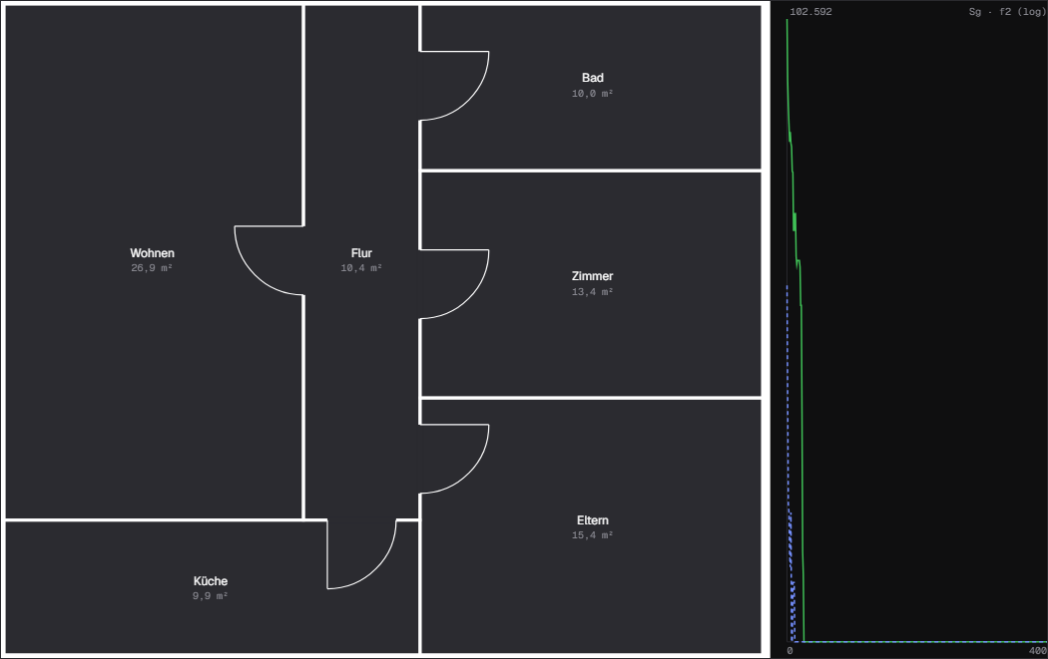
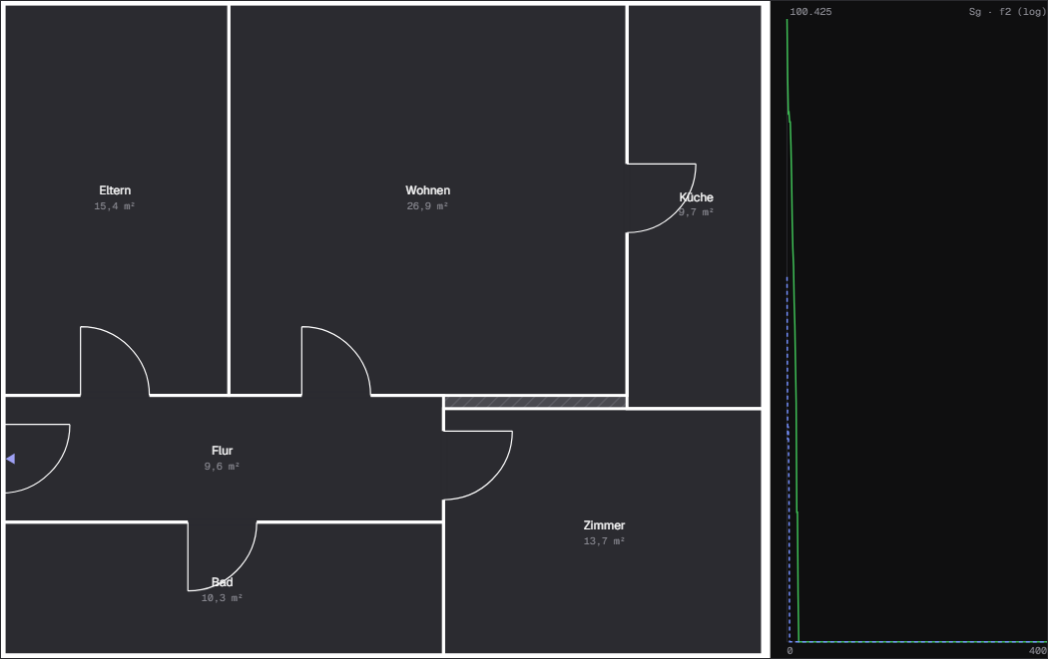
KREMLAS: Wohnung mit Eingang als Voreinstellung der Grundriss-Fassungen, Kasten „L-förmige Räume“ gut sichtbar (Reinhard 23.11.2026)
- grundrissTopo "wohnung" in grundriss6/8/10 (Stern des Buchs wählbar); Tests angepasst, Vorschau mit Saat 2
- L-Auswahl als eigener Kasten mit Überschrift und Hinweis in allen Grundriss-Fassungen (ohne Mindestmaße ausgegraut), im Text und unter „Lösungen“ beschrieben

diff --git a/simulationen/kremlas-dichte-packung/index.html b/simulationen/kremlas-dichte-packung/index.html
@@ -30,8 +30,9 @@
 .l-karte canvas { display: block; max-width: 100%; height: auto; }
 .loesungen .hinweis { font-size: 12px; margin: 10px 0 0; max-width: 90ch; }
 /* L-förmige Räume je Raum (neu) */
-.l-wahl { display: flex; flex-wrap: wrap; gap: 4px 12px; padding: 4px 0 8px; font-size: 13px; }
-.l-wahl .l-titel { flex-basis: 100%; color: var(--muted); font-size: 12px; }
+.l-wahl { display: flex; flex-wrap: wrap; gap: 4px 12px; margin: 6px 0 10px; padding: 8px 10px; font-size: 13px; border: 1px solid var(--accent-text); border-radius: 4px; }
+.l-wahl .l-titel { flex-basis: 100%; font-family: var(--mono); font-size: 11px; letter-spacing: .06em; text-transform: uppercase; color: var(--accent-text); }
+.l-wahl .l-hinweis { flex-basis: 100%; color: var(--muted); font-size: 12px; margin-bottom: 2px; }
 .l-wahl label { display: flex; align-items: center; gap: 4px; cursor: pointer; }
 .l-wahl label.aus { color: var(--muted); cursor: default; }
 </style>
@@ -65,7 +66,7 @@
     <span class="mono hinweis" id="l-status"></span>
   </div>
   <div id="l-karten"></div>
-  <p class="hinweis mono"><span lang="de">Gesucht werden Grundrisse, die funktionieren: jede geforderte Nachbarschaft mit Tür, keine Überlappung, jeder Raum mindestens so breit wie seine Mindestbreite und mindestens 95 % seiner Fläche. Die Suche startet viele kurze Läufe mit neuen Saaten, ab der eingestellten Saat, bessert Beinahe-Lösungen nach und wählt unter den Treffern möglichst verschiedene. Ein Klick auf eine Karte lädt den Grundriss in die Ansicht oben; dort lässt er sich weiterrechnen und mit der Maus bearbeiten.</span><span lang="en">The search looks for floor plans that work: a door for every required adjacency, no overlap, every room at least as wide as its minimum width and at least 95 % of its area. It starts many short runs with new seeds, beginning at the current seed, refines near-solutions and picks hits that differ as much as possible. Click a card to load the floor plan into the view above, where you can keep evolving it or edit it with the mouse.</span></p>
+  <p class="hinweis mono"><span lang="de">Gesucht werden Grundrisse, die funktionieren: jede geforderte Nachbarschaft mit Tür, keine Überlappung, jeder Raum mindestens so breit wie seine Mindestbreite und mindestens 95 % seiner Fläche. Die Suche startet viele kurze Läufe mit neuen Saaten, ab der eingestellten Saat, bessert Beinahe-Lösungen nach und wählt unter den Treffern möglichst verschiedene. Ein Klick auf eine Karte lädt den Grundriss in die Ansicht oben; dort lässt er sich weiterrechnen und mit der Maus bearbeiten. L-förmige Räume wählen Sie rechts im Bedienfeld unter <em>Fassung</em> im Kasten <em>L-förmige Räume</em>.</span><span lang="en">The search looks for floor plans that work: a door for every required adjacency, no overlap, every room at least as wide as its minimum width and at least 95 % of its area. It starts many short runs with new seeds, beginning at the current seed, refines near-solutions and picks hits that differ as much as possible. Click a card to load the floor plan into the view above, where you can keep evolving it or edit it with the mouse. Choose L-shaped rooms in the control panel on the right, under <em>Version</em>, in the box <em>L-shaped rooms</em>.</span></p>
 </section>
 
 <section class="text-teil">
@@ -83,9 +84,9 @@
       <p><code>Sg = Σ Schnittflächen der Räume + Σ Flächen außerhalb des Umgebungsrechtecks</code></p>
       <p>Eine hybride Evolutionsstrategie verbindet zwei Verfahren. Kinder entstehen durch Rekombination zweier Eltern und durch zufällige Verschiebung einzelner Räume, selten mit großen Sprüngen. Jedes Kind „entwickelt“ sich danach durch Kollisionserkennung: Überlappen sich zwei Räume, weichen beide um einen Teil des kürzesten Trennvektors aus (Kraft β) und ändern ihre Proportion (Kraft α), sodass die Fläche erhalten bleibt. Bei der (μ+λ)-Selektion kommen die Eltern selbst in die Auswahl, bei (μ,λ) nur die Kinder. Die Fassung <em>Kollision allein</em> zeigt, warum die Selektion nötig ist: Ohne sie schaukeln sich manche Anordnungen immer wieder auf.</p>
       <p>Die beiden Fassungen mit <em>Topologie</em> fordern Nachbarschaften: Alle Räume sollen an einen zentralen Raum grenzen (Stern), oder ein Gang erschließt drei Wohnungen mit je fünf Räumen. Virtuelle Federn ziehen Räume zusammen, die benachbart sein sollen. Ein zweites Kriterium f2 summiert ihre Abstände samt fehlender Durchgangsbreite. Die Selektion wählt einen Teil der Eltern nach Sg, den anderen nach f2. Im Originalcode zog die Hälfte der Federn in die falsche Richtung, und Räume, die sich schon berührten, bekamen gar keinen Zug mehr, auch wenn ihre gemeinsame Wand für einen Durchgang zu kurz war. Beides ist hier behoben. Außerdem wechseln Federn und Kollisionserkennung je Kind mehrmals ab (Regler <em>Federrunden</em>, im Original zwei). So ziehen sich die Räume sichtbar zusammen: Den Stern mit acht Räumen löst die App fast immer, meist schon in den ersten hundert Generationen, den Gang mit 16 Räumen meist innerhalb von tausend. Ziehen Sie einen Raum mit der Maus an eine andere Stelle: Die übrigen ordnen sich um ihn herum neu.</p>
-      <p>Die Fassungen <em>Grundriss</em> machen daraus einen Grundriss-Generator, wie ihn das Buch zum Projekt beschreibt (Kapitel 5 und 9). Grundlage sind die beiden Raumprogramme mit acht und zehn Räumen nach Flemming: Flur, Hof, Wohnen, Elternschlafzimmer, zwei Zimmer, Küche und Bad, zusammen 86 m². Sie sind auch im Originalcode vorbereitet. Das Feld misst 10 × 8,6 m. Die Räume füllen es wie im Buch ganz aus, und alle Räume sollen an den Flur grenzen (Sterntopologie). Damit das gelingt, muss der Flur schmal und lang werden dürfen. Die kürzeste Seite eines Raums darf deshalb bis auf 0,4 · √Fläche sinken (im Originalcode fest 0,75). Mit 1 m Durchgangsbreite löst die App das Programm mit acht Räumen meist ganz, das mit zehn Räumen seltener. Wahlweise gibt es angenommene Nachbarschaften einer Wohnung mit Eingang am Flur (diese Auswahl erscheint nur in den Grundriss-Fassungen). Mit <em>Topologie zeigen</em> liegen die geforderten Nachbarschaften als Linien über dem Grundriss. Wer die Belegung unter 100 % stellt, findet leichter Lösungen. Die Ansicht <em>Grundriss ableiten</em> lässt die Räume dann in die Restflächen wachsen. Sie zeichnet Wände, setzt an den gemeinsamen Wänden geforderter Nachbarn mittig eine Tür, wie im Buch, und schraffiert, was übrig bleibt. Die Flächen im Plan sind die Flächen nach dem Wachsen.</p>
+      <p>Die Fassungen <em>Grundriss</em> machen daraus einen Grundriss-Generator, wie ihn das Buch zum Projekt beschreibt (Kapitel 5 und 9). Grundlage sind die beiden Raumprogramme mit acht und zehn Räumen nach Flemming: Flur, Hof, Wohnen, Elternschlafzimmer, zwei Zimmer, Küche und Bad, zusammen 86 m². Sie sind auch im Originalcode vorbereitet. Das Feld misst 10 × 8,6 m. Die Räume füllen es wie im Buch ganz aus, und alle Räume sollen an den Flur grenzen (Sterntopologie). Damit das gelingt, muss der Flur schmal und lang werden dürfen. Die kürzeste Seite eines Raums darf deshalb bis auf 0,4 · √Fläche sinken (im Originalcode fest 0,75). Mit 1 m Durchgangsbreite löst die App das Programm mit acht Räumen meist ganz, das mit zehn Räumen seltener. Voreingestellt sind jetzt angenommene Nachbarschaften einer Wohnung mit Eingang am Flur; die Sterntopologie des Buchs ist wählbar (diese Auswahl erscheint nur in den Grundriss-Fassungen). Mit <em>Topologie zeigen</em> liegen die geforderten Nachbarschaften als Linien über dem Grundriss. Wer die Belegung unter 100 % stellt, findet leichter Lösungen. Die Ansicht <em>Grundriss ableiten</em> lässt die Räume dann in die Restflächen wachsen. Sie zeichnet Wände, setzt an den gemeinsamen Wänden geforderter Nachbarn mittig eine Tür, wie im Buch, und schraffiert, was übrig bleibt. Die Flächen im Plan sind die Flächen nach dem Wachsen.</p>
       <p><strong>Lösungen suchen (neu).</strong> Die App startet mit einem Grundriss aus sechs Räumen: Flur, Wohnen, Küche, Elternschlafzimmer, Zimmer und Bad, zusammen ebenfalls 86 m². Dieses Programm ist angenommen, im Buch steht es nicht. In allen Grundriss-Fassungen gelten jetzt <em>Mindestmaße</em>, ausgeschaltet gilt der Stand des Buchs. Jeder Raum hat eine Mindestbreite, die schon im Erbgut gilt, sodass kein Raum schmaler wird: Flur 1,20 m nach DIN 18040-2:2011-09 (<em>Barrierefreies Bauen – Planungsgrundlagen – Teil 2: Wohnungen</em>), Wohnen 3,00 m, Elternschlafzimmer 2,80 m, Zimmer und Essen 2,40 m, Küche 1,80 m, Bad 1,60 m, zweites Bad 1,40 m, Hof 2,50 m. Außer beim Flur sind das Annahmen nach üblichen Möblierungen, denn eine geltende Norm mit Mindestbreiten je Raumart gibt es nicht (DIN 18011 ist zurückgezogen). Ein drittes Kriterium f3 bewertet den abgeleiteten Plan selbst: fehlende Türen (gemessen als Abstand der Räume und fehlende Länge der gemeinsamen Wand), zu schmale und zu kleine Räume, Überlappung. In der Selektion tritt f3 an die Stelle von f2. Kleine Überlappungen bis 0,5 m teilt der Plan, die Wand rückt in ihre Mitte. Damit dabei jeder Raum seine Fläche behält, belegen die Räume 96 % des Feldes. Unter der Grafik sucht <em>Grundrisse suchen</em> die eingestellte Zahl gültiger Grundrisse, voreingestellt drei. Die Suche startet viele kurze Läufe mit neuen Saaten statt eines langen, denn wer früh nicht trifft, trifft selten noch. Beinahe-Lösungen bessert sie nach, indem sie einzelne Räume ein wenig verschiebt, und unter den Treffern wählt sie möglichst verschiedene aus. Drei Grundrisse mit sechs Räumen sind meist in ein bis zwei Sekunden gefunden, mit acht Räumen in rund 20 Sekunden. Mit zehn Räumen gelingt es in der Wohnung, im Stern kaum: Dort reicht die Wandlänge des Flurs kaum für alle Mindestbreiten. Ein Klick auf eine Karte lädt den Grundriss in die Ansicht, wo er sich weiterrechnen und mit der Maus bearbeiten lässt.</p>
-      <p><strong>L-förmige Räume (neu).</strong> Unter <em>Mindestmaße</em> lässt sich je Raum erlauben, dass er L-förmig wird. Ein L-Raum besteht dann aus zwei Rechtecken mit fester Gesamtfläche, Hauptteil und Schenkel. Die Packung behandelt sie wie zwei Räume, eine innere Feder zieht sie zusammen, und die Fläche verschiebt sich durch Mutation zwischen ihnen. Gültig ist der Raum, wenn sich beide Teile auf mindestens seiner Mindestbreite berühren und an einem Ende bündig liegen, sonst entstünde ein T oder ein Z. Jeder Schenkel braucht die Mindestbreite, deshalb geht das nur bei Räumen, deren Fläche für zwei solche Teile reicht (mindestens 2,2 · Mindestbreite²). Türen dürfen an beiden Teilen sitzen. Mit sechs Räumen und L-förmigem Flur und Wohnen findet die Suche drei Grundrisse meist in wenigen Sekunden. Mit acht Räumen werden L-Räume deutlich seltener gültig.</p>
+      <p><strong>L-förmige Räume (neu).</strong> Im Bedienfeld unter <em>Fassung</em>, im Kasten <em>L-förmige Räume</em> direkt unter dem Schalter <em>Mindestmaße</em>, lässt sich je Raum erlauben, dass er L-förmig wird. Ein L-Raum besteht dann aus zwei Rechtecken mit fester Gesamtfläche, Hauptteil und Schenkel. Die Packung behandelt sie wie zwei Räume, eine innere Feder zieht sie zusammen, und die Fläche verschiebt sich durch Mutation zwischen ihnen. Gültig ist der Raum, wenn sich beide Teile auf mindestens seiner Mindestbreite berühren und an einem Ende bündig liegen, sonst entstünde ein T oder ein Z. Jeder Schenkel braucht die Mindestbreite, deshalb geht das nur bei Räumen, deren Fläche für zwei solche Teile reicht (mindestens 2,2 · Mindestbreite²). Türen dürfen an beiden Teilen sitzen. Mit sechs Räumen und L-förmigem Flur und Wohnen findet die Suche drei Grundrisse meist in wenigen Sekunden. Mit acht Räumen werden L-Räume deutlich seltener gültig.</p>
       <p>Die App ist eine Neuumsetzung des C#-Programms von Reinhard König aus dem Projekt KREMLAS. Was geändert wurde, steht in <a href="QUELLE.md">QUELLE.md</a>.</p>
     </div>
     <div lang="en">
@@ -93,9 +94,9 @@
       <p><code>Sg = Σ intersections of the rooms + Σ areas outside the surrounding rectangle</code></p>
       <p>A hybrid evolution strategy combines two methods. Children are created by recombining two parents and by shifting single rooms at random, occasionally with large jumps. Each child then “develops” through collision detection: if two rooms overlap, both move apart by a share of the shortest separating vector (force β) and change their proportions (force α) so that their area stays the same. With (μ+λ) selection the parents themselves compete with the children; with (μ,λ) only the children do. The version <em>Collision only</em> shows why selection is needed: without it, some arrangements keep building up again and again.</p>
       <p>The two <em>topology</em> versions demand adjacencies: all rooms should border a central room (star), or a corridor gives access to three flats of five rooms each. Virtual springs pull together rooms that should be neighbours. A second criterion f2 sums their distances, including any missing passage width. Selection picks part of the parents by Sg and the rest by f2. In the original code, half of the springs pulled in the wrong direction, and rooms that already touched got no pull at all, even when their shared wall was too short for a passage. Both are fixed here. In addition, springs and collision detection alternate several times per child (slider <em>spring rounds</em>, two in the original). The rooms now visibly pull together: the app almost always solves the star with eight rooms, usually within the first hundred generations, and usually solves the corridor with 16 rooms within a thousand. Drag a room somewhere else with the mouse, and the other rooms rearrange themselves around it.</p>
-      <p>The <em>floor plan</em> versions turn this into a floor plan generator as described in the project book (chapters 5 and 9). They use the two room programmes with eight and ten rooms after Flemming: hall, court, living room, master bedroom, two bedrooms, kitchen and bathroom, 86 m² in total. These are also prepared in the original code. The field measures 10 × 8.6 m. As in the book, the rooms fill it completely, and every room should border the hall (star topology). For this to work, the hall must be allowed to become long and narrow. The shortest side of a room may therefore drop to 0.4 · √area (fixed at 0.75 in the original code). With a passage width of 1 m, the app usually solves the eight-room programme completely, the ten-room programme less often. Alternatively, there are assumed adjacencies of a flat with an entrance in the hall (this choice appears only in the floor plan versions). With <em>show topology</em>, the required adjacencies are drawn as lines over the floor plan. Setting the coverage below 100 % makes solutions easier to find. The <em>derive floor plan</em> view then lets the rooms grow into the leftover space. It draws walls, places a door in the middle of each shared wall between required neighbours, as in the book, and hatches whatever space remains. The areas shown in the plan are those after growing.</p>
+      <p>The <em>floor plan</em> versions turn this into a floor plan generator as described in the project book (chapters 5 and 9). They use the two room programmes with eight and ten rooms after Flemming: hall, court, living room, master bedroom, two bedrooms, kitchen and bathroom, 86 m² in total. These are also prepared in the original code. The field measures 10 × 8.6 m. As in the book, the rooms fill it completely, and every room should border the hall (star topology). For this to work, the hall must be allowed to become long and narrow. The shortest side of a room may therefore drop to 0.4 · √area (fixed at 0.75 in the original code). With a passage width of 1 m, the app usually solves the eight-room programme completely, the ten-room programme less often. By default, the app now uses assumed adjacencies of a flat with an entrance in the hall; the book's star topology can be selected (this choice appears only in the floor plan versions). With <em>show topology</em>, the required adjacencies are drawn as lines over the floor plan. Setting the coverage below 100 % makes solutions easier to find. The <em>derive floor plan</em> view then lets the rooms grow into the leftover space. It draws walls, places a door in the middle of each shared wall between required neighbours, as in the book, and hatches whatever space remains. The areas shown in the plan are those after growing.</p>
       <p><strong>Searching for solutions (new).</strong> The app starts with a floor plan of six rooms: hall, living room, kitchen, master bedroom, bedroom and bathroom, again 86 m² in total. This programme is assumed; it is not in the book. All floor plan versions now apply <em>minimum dimensions</em>; switched off, the book's version applies. Each room has a minimum width that already holds in the genotype, so no room becomes narrower: hall 1.20 m after DIN 18040-2:2011-09 (<em>Barrierefreies Bauen – Planungsgrundlagen – Teil 2: Wohnungen</em>, accessible design, part 2: dwellings), living room 3.00 m, master bedroom 2.80 m, bedroom and dining room 2.40 m, kitchen 1.80 m, bathroom 1.60 m, second bathroom 1.40 m, court 2.50 m. Apart from the hall, these are assumptions based on common furnishing, because no standard in force sets minimum widths per type of room (DIN 18011 has been withdrawn). A third criterion f3 assesses the derived plan itself: missing doors (measured as the distance between the rooms plus the missing length of their shared wall), rooms that are too narrow or too small, and overlap. In selection, f3 takes the place of f2. The plan splits small overlaps of up to 0.5 m by moving the wall to their middle. So that every room keeps its area, the rooms cover 96 % of the field. Below the drawing, <em>search floor plans</em> looks for the chosen number of valid floor plans, three by default. Instead of one long run, the search starts many short runs with new seeds, since a run that does not succeed early rarely succeeds later. It refines near-solutions by shifting single rooms slightly and picks hits that differ as much as possible. Three floor plans with six rooms are usually found within one or two seconds, with eight rooms in about 20 seconds. With ten rooms the flat works, the star hardly ever does: there the hall's walls are barely long enough for every minimum width. Click a card to load the floor plan into the view, where you can keep evolving it or edit it with the mouse.</p>
-      <p><strong>L-shaped rooms (new).</strong> Under <em>minimum dimensions</em>, each room can be allowed to become L-shaped. Such a room then consists of two rectangles with a fixed total area, a main part and a leg. The packing treats them like two rooms, an inner spring pulls them together, and mutation shifts area between them. The room is valid when both parts touch along at least its minimum width and are flush at one end; otherwise it would form a T or a Z. Each leg needs the minimum width, so this works only for rooms whose area is enough for two such parts (at least 2.2 · minimum width²). Doors may sit on either part. With six rooms and an L-shaped hall and living room, the search usually finds three floor plans within a few seconds. With eight rooms, L-shaped rooms are valid much less often.</p>
+      <p><strong>L-shaped rooms (new).</strong> In the control panel under <em>Version</em>, in the box <em>L-shaped rooms</em> right below the <em>minimum dimensions</em> switch, each room can be allowed to become L-shaped. Such a room then consists of two rectangles with a fixed total area, a main part and a leg. The packing treats them like two rooms, an inner spring pulls them together, and mutation shifts area between them. The room is valid when both parts touch along at least its minimum width and are flush at one end; otherwise it would form a T or a Z. Each leg needs the minimum width, so this works only for rooms whose area is enough for two such parts (at least 2.2 · minimum width²). Doors may sit on either part. With six rooms and an L-shaped hall and living room, the search usually finds three floor plans within a few seconds. With eight rooms, L-shaped rooms are valid much less often.</p>
       <p>The app re-implements Reinhard König's C# program from the KREMLAS project. Changes are listed in <a href="QUELLE.md">QUELLE.md</a>.</p>
     </div>
   </div>

diff --git a/simulationen/kremlas-dichte-packung/modell.js b/simulationen/kremlas-dichte-packung/modell.js
@@ -52,11 +52,11 @@
                   repForce: 0.25, repRate: 1, propForce: 0.25, propRate: 1, daempfung: 0.5, rlap: 50, federRunden: 10, mindest: false, lform: 0 },
     gang:       { ablauf: "topologie", topologie: "gang", belegung: 0.75, minSeite: 0.75, grundrissTopo: "stern", raeume: 16, mu: 10, druck: 2, plus: true, elite: false, kreuzung: true, kreuzRate: 0.75,
                   repForce: 0.25, repRate: 1, propForce: 0.25, propRate: 1, daempfung: 0.5, rlap: 50, federRunden: 10, mindest: false, lform: 0 },
-    grundriss6: { ablauf: "topologie", topologie: "programm", programm: "sechs", belegung: 0.96, minSeite: 0.4, grundrissTopo: "stern", raeume: 6, mu: 20, druck: 2, plus: true, elite: false, kreuzung: true, kreuzRate: 0.75,
+    grundriss6: { ablauf: "topologie", topologie: "programm", programm: "sechs", belegung: 0.96, minSeite: 0.4, grundrissTopo: "wohnung", raeume: 6, mu: 20, druck: 2, plus: true, elite: false, kreuzung: true, kreuzRate: 0.75,
                   repForce: 0.25, repRate: 1, propForce: 0.25, propRate: 1, daempfung: 0.5, rlap: 50, federRunden: 5, mindest: true, lform: 0 },
-    grundriss8: { ablauf: "topologie", topologie: "programm", programm: "acht", belegung: 0.96, minSeite: 0.4, grundrissTopo: "stern", raeume: 8, mu: 20, druck: 2, plus: true, elite: false, kreuzung: true, kreuzRate: 0.75,
+    grundriss8: { ablauf: "topologie", topologie: "programm", programm: "acht", belegung: 0.96, minSeite: 0.4, grundrissTopo: "wohnung", raeume: 8, mu: 20, druck: 2, plus: true, elite: false, kreuzung: true, kreuzRate: 0.75,
                   repForce: 0.25, repRate: 1, propForce: 0.25, propRate: 1, daempfung: 0.5, rlap: 50, federRunden: 5, mindest: true, lform: 0 },
-    grundriss10:{ ablauf: "topologie", topologie: "programm", programm: "zehn", belegung: 0.96, minSeite: 0.4, grundrissTopo: "stern", raeume: 10, mu: 20, druck: 2, plus: true, elite: false, kreuzung: true, kreuzRate: 0.75,
+    grundriss10:{ ablauf: "topologie", topologie: "programm", programm: "zehn", belegung: 0.96, minSeite: 0.4, grundrissTopo: "wohnung", raeume: 10, mu: 20, druck: 2, plus: true, elite: false, kreuzung: true, kreuzRate: 0.75,
                   repForce: 0.25, repRate: 1, propForce: 0.25, propRate: 1, daempfung: 0.5, rlap: 50, federRunden: 5, mindest: true, lform: 0 }
   };
 
@@ -66,7 +66,7 @@
 
   /** Raumprogramme für den Grundriss-Generator: Flächen aus REvo.GrowPolys (auskommentiert, je 86 m²) = Buch Tab. 8 und 9
       (Szenarien nach Flemming et al. 1992). Nachbarschaften wie im Buch (Kap. 9.1): Sterntopologie, alle Räume grenzen an den
-      Flur (grundrissTopo "stern", Voreinstellung). Wahlweise ("wohnung") hier angenommene Nachbarschaften einer Wohnung: Flur (hall) liegt an der Außenwand (Eingang, Nachbar −1)
+      Flur (grundrissTopo "stern"). Voreinstellung (Reinhard 23.11.2026) ist "wohnung": hier angenommene Nachbarschaften einer Wohnung: Flur (hall) liegt an der Außenwand (Eingang, Nachbar −1)
       und erschließt Wohnen, Schlafräume und Bad,
       Wohnen grenzt an Hof und Küche (bzw. Essen, Essen an Küche), das zweite Bad gehört zum Elternschlafzimmer.
       Je Raum: [Name, name, Fläche m², Mindestbreite m]. Mindestbreiten (neu, 23.11.2026) sind Annahmen, keine Norm: Flur 1,20 m nach

diff --git a/simulationen/kremlas-dichte-packung/app.js b/simulationen/kremlas-dichte-packung/app.js
@@ -161,15 +161,17 @@
     const mz = document.getElementById("p-mindest"), mzeile = mz && mz.closest(".zeile"); if (!mzeile) return;
     let box = document.getElementById("l-wahl");
     if (!box) { box = document.createElement("div"); box.id = "l-wahl"; box.className = "l-wahl"; mzeile.after(box); }
-    const zeigen = !!(z.programm && z.mindest), d = zeigen ? "" : "none";
+    const zeigen = !!z.programm, d = zeigen ? "" : "none";             // in allen Grundriss-Fassungen sichtbar; ohne Mindestmaße ausgegraut
     if (box.style.display !== d) box.style.display = d;
     if (!zeigen) return;
-    const maske = (p && p.lform) || 0, k = [z.programm, maske, en()].join("|");
+    const maske = (p && p.lform) || 0, k = [z.programm, maske, en(), !!z.mindest].join("|");
     if (k === lSchluessel) return;
     lSchluessel = k;
     const R = Modell.PROGRAMME[z.programm].raeume;
-    box.innerHTML = `<div class="l-titel">${en() ? "L-shaped allowed (new)" : "L-förmig erlaubt (neu)"}</div>` + R.map((q, i) => {
-      const ok = Modell.lMoeglich(z.programm, i), an = ok && Math.floor(maske / 2 ** i) % 2 === 1;
+    box.innerHTML = `<div class="l-titel">${en() ? "L-shaped rooms" : "L-förmige Räume"}</div><div class="l-hinweis">${z.mindest
+        ? (en() ? "Tick the rooms that may become L-shaped (made of two rectangles). Greyed out: too small for two legs of minimum width." : "Räume ankreuzen, die L-förmig werden dürfen (aus zwei Rechtecken). Grau: zu klein für zwei Schenkel mit Mindestbreite.")
+        : (en() ? "Only with minimum dimensions (switch above)." : "Nur mit Mindestmaßen (Schalter darüber).")}</div>` + R.map((q, i) => {
+      const ok = z.mindest && Modell.lMoeglich(z.programm, i), an = ok && Math.floor(maske / 2 ** i) % 2 === 1;
       return `<label class="${ok ? "" : "aus"}" title="${ok ? "" : (en() ? "too small for two legs of minimum width" : "zu klein für zwei Schenkel mit Mindestbreite")}"><input type="checkbox" data-raum="${i}"${an ? " checked" : ""}${ok ? "" : " disabled"}> ${en() ? q[1] : q[0]}</label>`;
     }).join("");
     box.querySelectorAll("input").forEach(e => e.addEventListener("change", () => {
